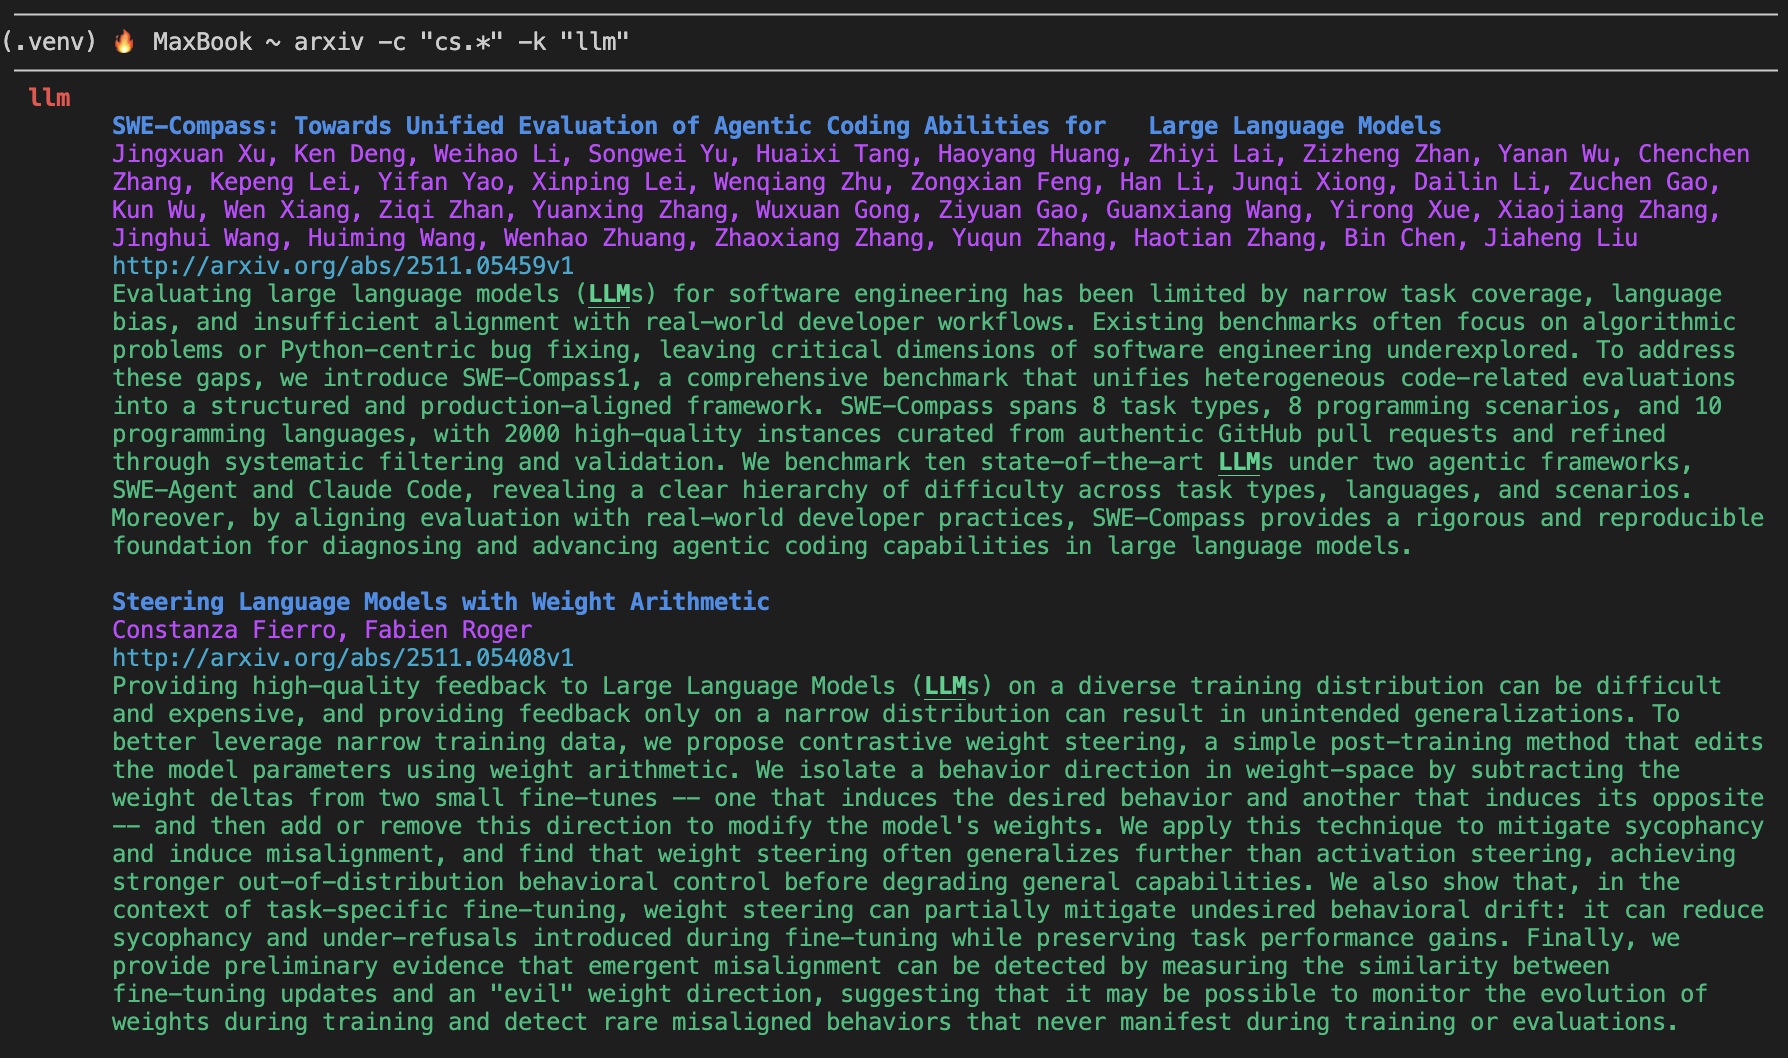
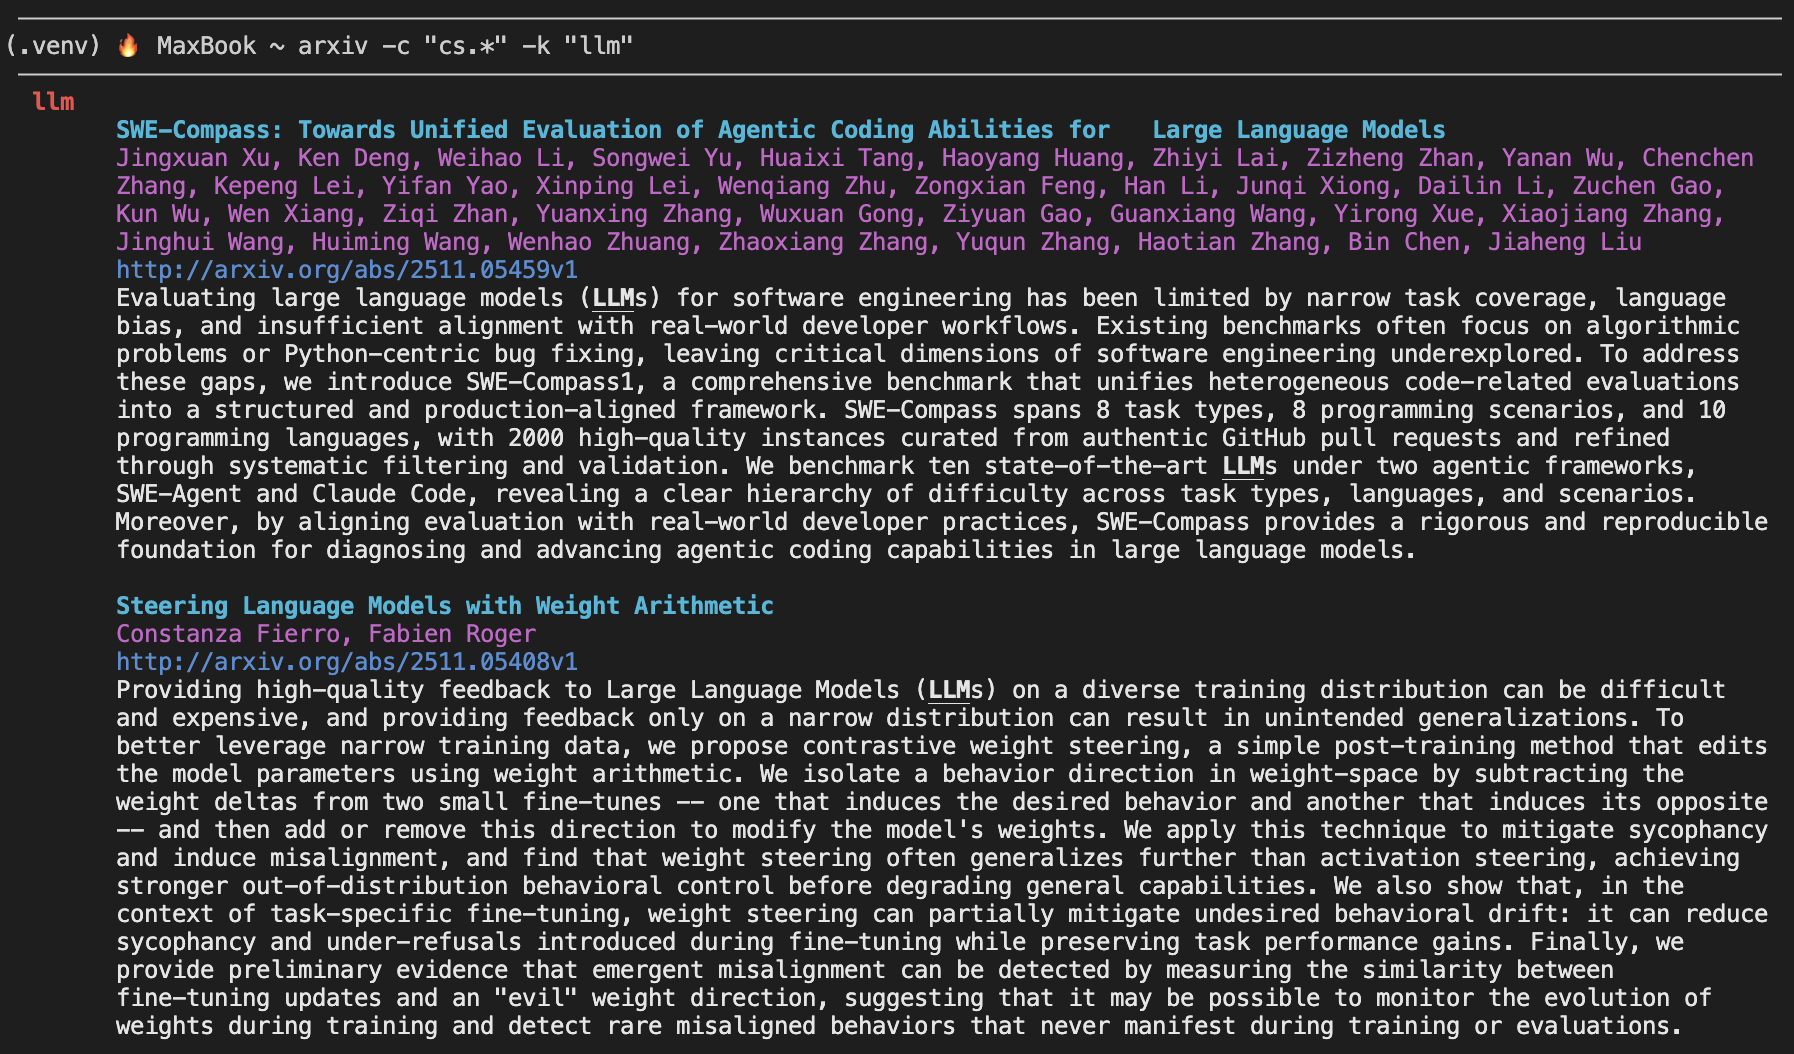
themes

diff --git a/util.py b/util.py
@@ -1,34 +1,42 @@
 from rich.style import Style
-from rich.highlighter import RegexHighlighter
+from rich.text import Text
 import re
 
-class KeywordHighlighter(RegexHighlighter):
-    def __init__(self, keyword):
-        super().__init__()
-        self.keyword = keyword
-        self.highlights = f'(?i)({self.keyword})'
-        self.base_style = "bold underline"
+ACTIVE_THEME = "nordic"
 
-    def highlight(self, text):
-        text.highlight_regex(re_highlight=self.highlights, style=self.base_style)
+# Theme defs
+THEMES = {
+    "vibrant": {
+        "title": "purple",
+        "author": "magenta",
+        "link": "bright_blue",
+        "abstract": "green"
+    },
+    "solarized": {
+        "title": "yellow",
+        "author": "cyan",
+        "link": "blue",
+        "abstract": "white"
+    },
+    "classic": {
+        "title": "bright_white",
+        "author": "green",
+        "link": "bright_blue",
+        "abstract": "white"
+    },
+    "nordic": {
+        "title": "bright_cyan",
+        "author": "magenta",
+        "link": "blue",
+        "abstract": "bright_white"
+    }
+}
 
 def clean_abstract(abstract):
     if isinstance(abstract, str) and "\\\\" in abstract:
         valid = abstract.split("\\\\")[1:]
-        return " ".join(valid)
-    return abstract if isinstance(abstract, str) else ""
-
-def add_to_table(df, table, keyword):
-    title_style = Style(color="bright_blue", bold=True)
-    highlighter = KeywordHighlighter(keyword)
-    for _, row in df.iterrows():
-        table.add_row('', highlighter(row['title']), style=title_style)
-        table.add_row('', highlighter(row['authors']), style='purple')
-        table.add_row('', row['url'], style='cyan')
-        cleaned_abstract = clean_abstract(row.get('abstract', ''))
-        table.add_row('', highlighter(cleaned_abstract), style='green')
-        table.add_row('')
-    return table
+        return " ".join(valid).strip()
+    return abstract.strip() if isinstance(abstract, str) else ""
 
 def get_until(i, lines, delim, n_skip=0):
     text = lines[i][n_skip:].strip() + ' '
@@ -40,3 +48,41 @@ def get_until(i, lines, delim, n_skip=0):
     except IndexError:
         return text
     return text
+
+def add_to_table(df, table, keyword):
+    # Load the selected color theme
+    try:
+        colors = THEMES[ACTIVE_THEME]
+    except KeyError:
+        print(f"Warning: Theme '{ACTIVE_THEME}' not found. Falling back to 'vibrant'.")
+        colors = THEMES["vibrant"]
+
+    # Define styles based on the loaded theme
+    title_style = Style(color=colors["title"], bold=True)
+    author_style = Style(color=colors["author"])
+    link_style = Style(color=colors["link"])
+    abstract_style = Style(color=colors["abstract"])
+    highlight_style = "bold underline"
+
+    highlight_regex = f"(?i)({re.escape(keyword)})"
+
+    for _, row in df.iterrows():
+        title_str = row.get('title', '')
+        authors_str = row.get('authors', '')
+        url_str = row.get('url', '')
+        abstract_str = clean_abstract(row.get('abstract', ''))
+
+        title_text = Text(title_str)
+        authors_text = Text(authors_str)
+        abstract_text = Text(abstract_str)
+
+        title_text.highlight_regex(highlight_regex, style=highlight_style)
+        abstract_text.highlight_regex(highlight_regex, style=highlight_style)
+        authors_text.highlight_regex(highlight_regex, style=highlight_style)
+
+        table.add_row('', title_text, style=title_style)
+        table.add_row('', authors_text, style=author_style)
+        table.add_row('', url_str, style=link_style)
+        table.add_row('', abstract_text, style=abstract_style)
+        table.add_row('')
+    return table
